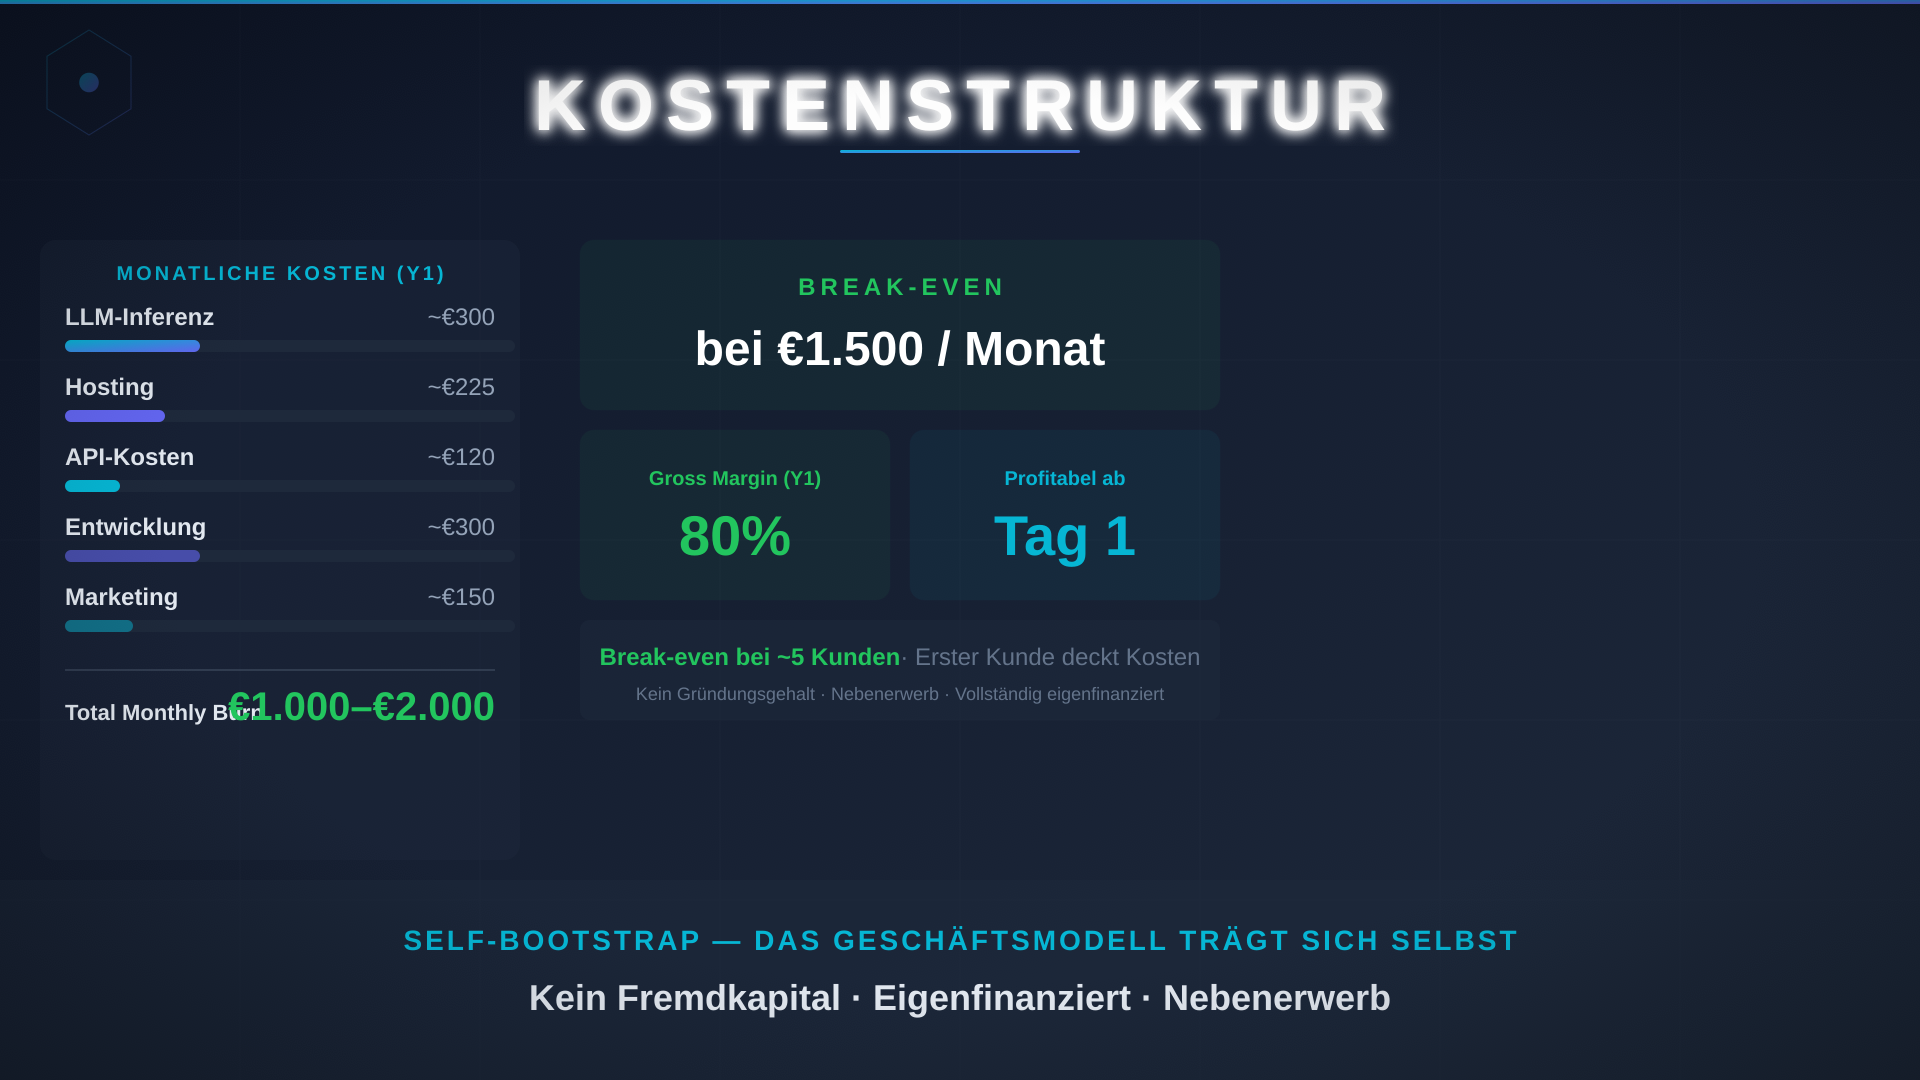
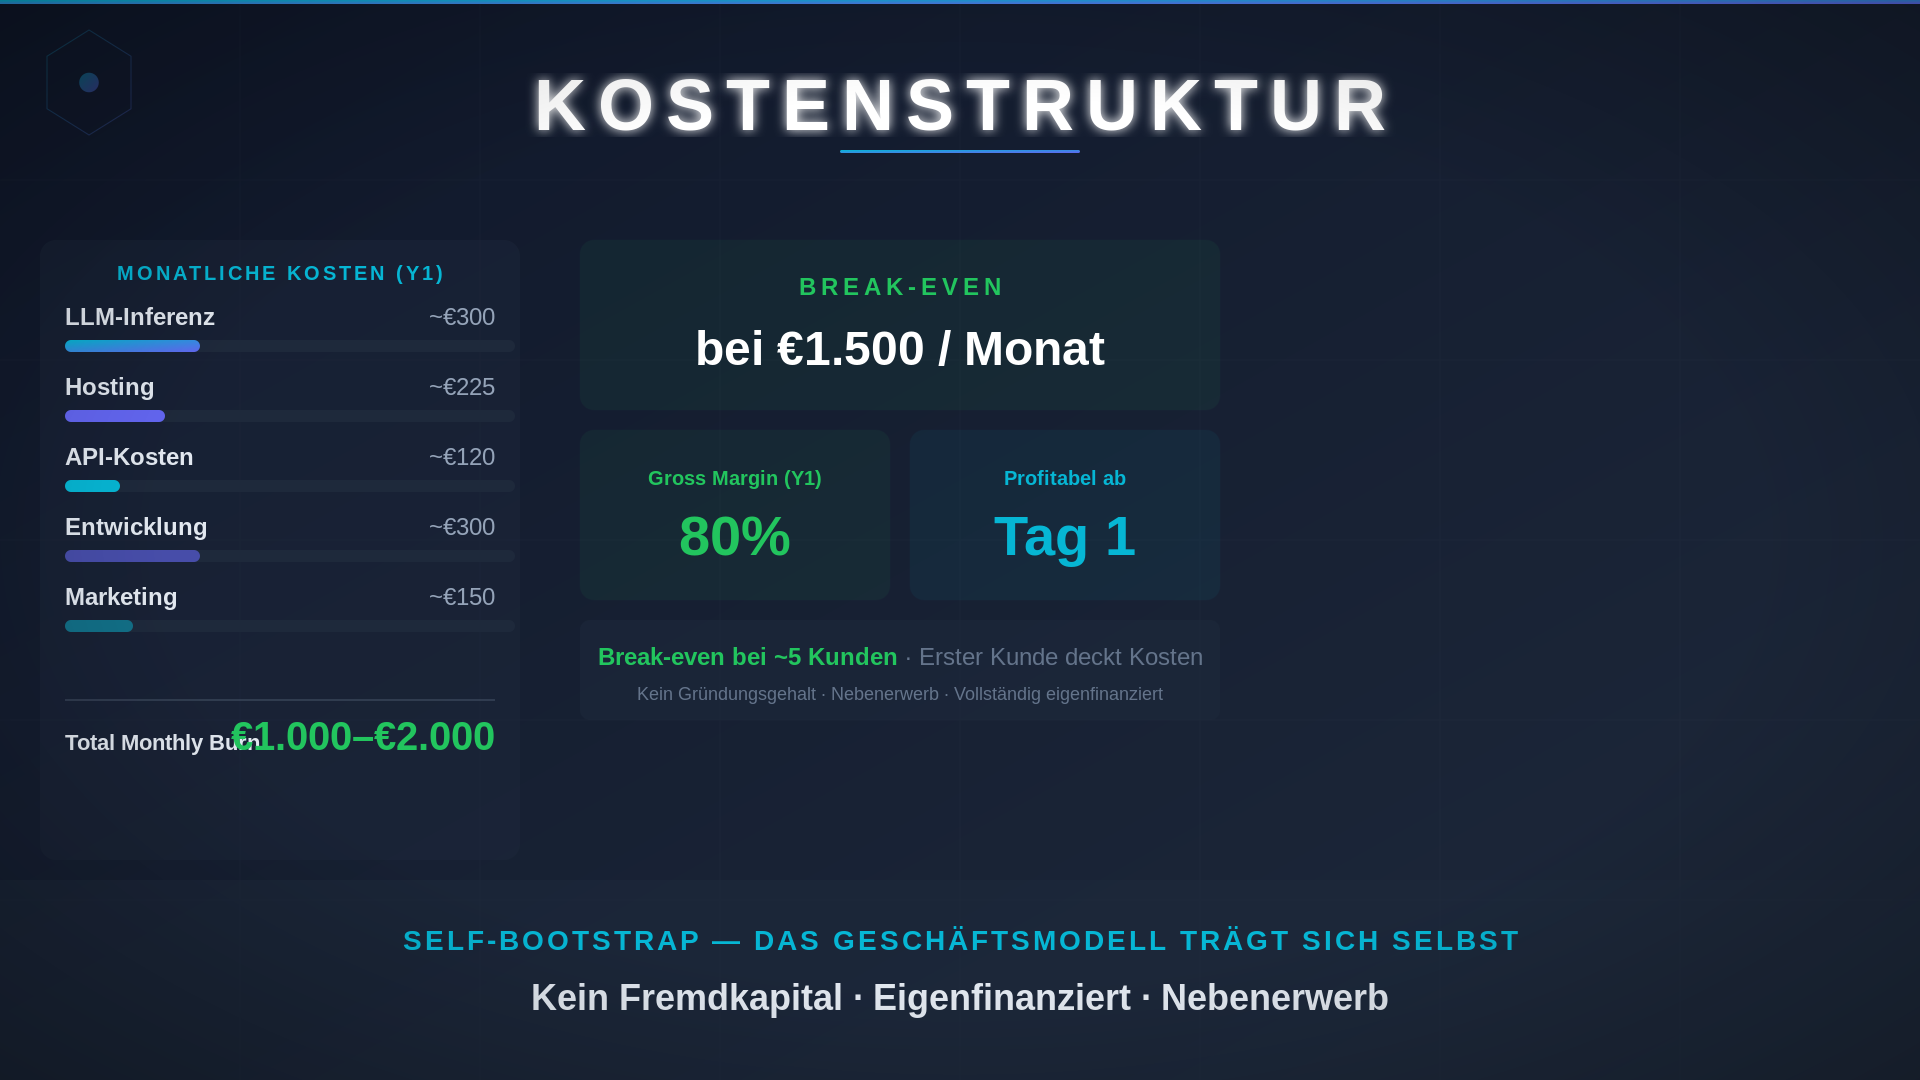
30s-Skript an 3-Min-Inhalt angepasst; Total Monthly Burn im Kosten-SVG fix + PNG gerendert

diff --git a/script-30s.md b/script-30s.md
@@ -28,7 +28,7 @@
 *[Marc Viel zeigt auf linke Spalte]*
 
 **(0:00–0:15)**
-„Neue Patente, Zulassungen, Studien — jeden Tag. Sind Sie sicher, dass Sie das richtige Signal sehen?"
+„Neue Patente, Zulassungen, Studien — jeden Tag. Die MDR 2027 zwingt 40.000 Produkte zur Neuzertifizierung. Ein falscher Partner — Monate verloren. Sehen Sie das richtige Signal?"
 
 *—— Hart-Schnitt ——*
 
@@ -39,4 +39,4 @@
 *[Dr. Tobias Weiß zeigt auf mittlere, dann rechte Spalte]*
 
 **(0:15–0:30)**
-„Contextual Intelligence sortiert den Lärm. 22 Datenquellen, klare Signale. openDesk-Transfer: digitale Souveränität auf eigener Hardware. Pilot mit Siemens Healthineers. 299 Euro im Monat. Testen Sie es. Danke."
+„Contextual Intelligence sortiert den Lärm — 22 Datenquellen, semantischer Graph: heiß, warm, kalt. openDesk: digitale Souveränität auf eigener Hardware, keine Cloud. 299 Euro, 14 Mal günstiger als vergleichbare Dienste. Pilot mit Siemens Healthineers. Testen Sie es. Danke."